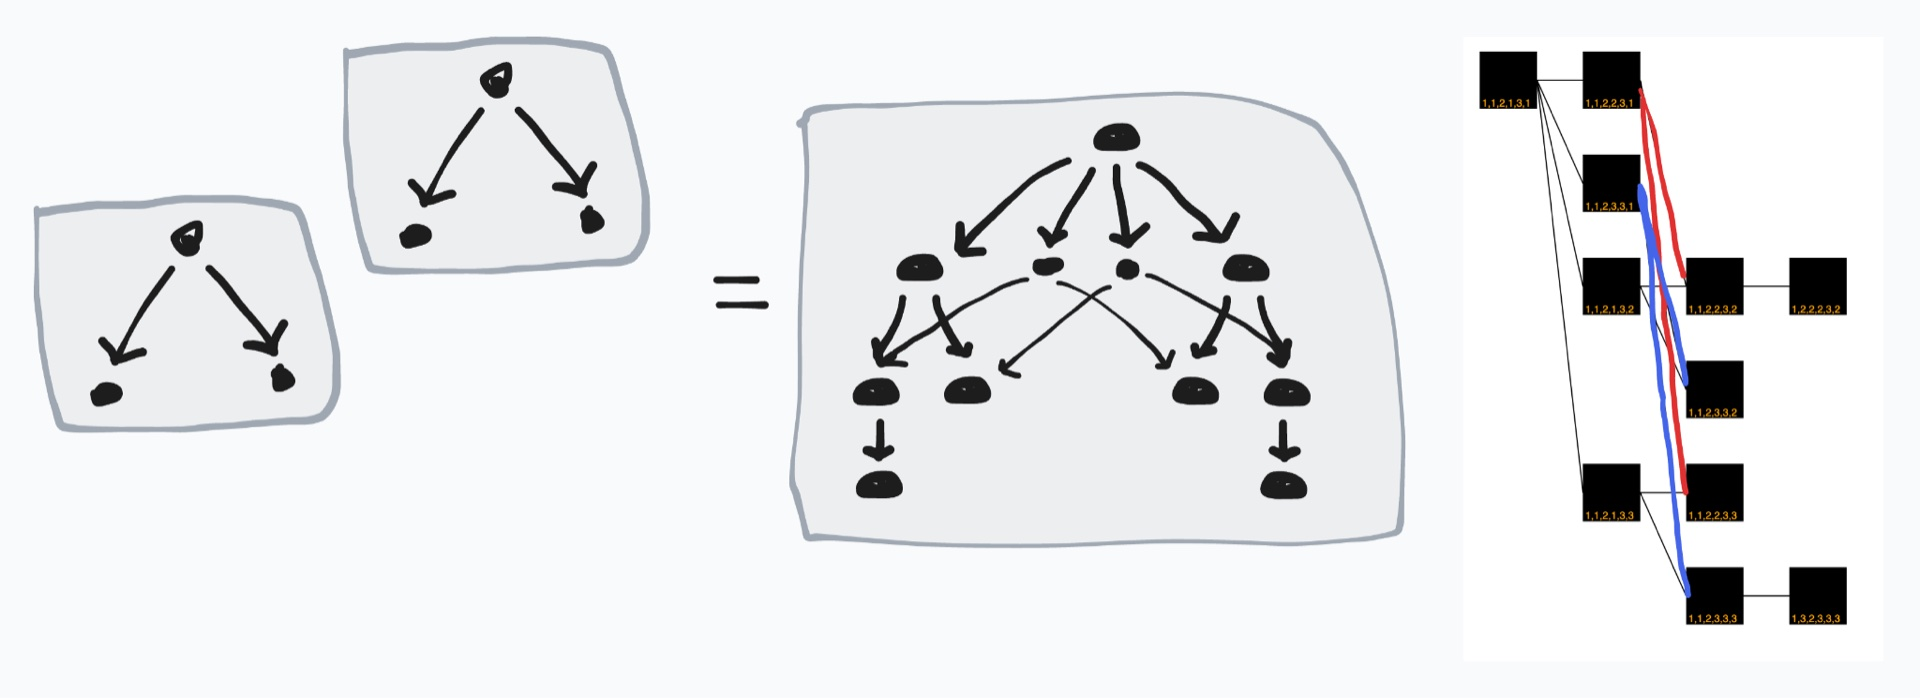
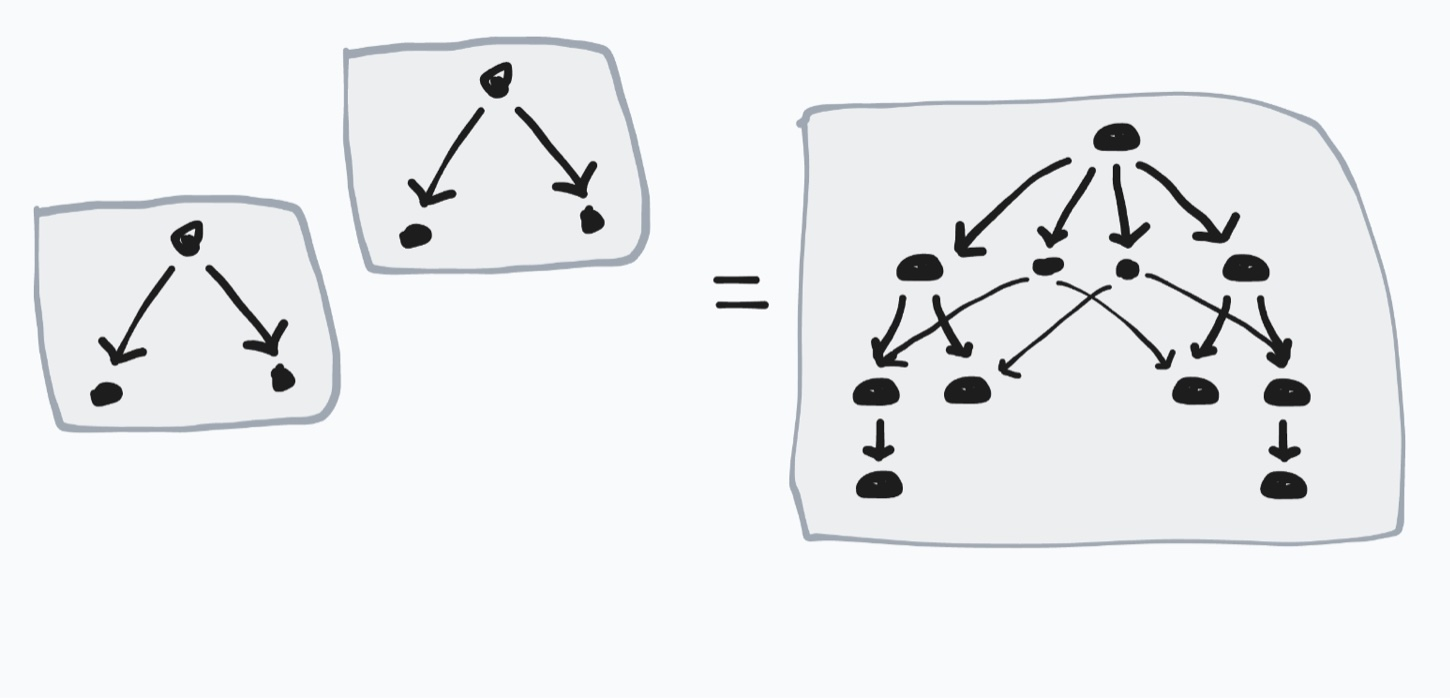
slideshow: Elliot slide's live twisted trees drag themselves around; walk slide's map drops in on its own, smaller, without the caption
Rails gets a loop option: a scripted step replays, its track made afresh
from the stage each time, until the step changes. Also an updated
elliot-1.jpg.

Changed region(s): [[0.4034, 0.0602, 0.9621, 0.9026], [0.0, 0.0301, 0.4655, 0.6318], [0.9621, 0.5115, 0.9931, 0.7521]]

diff --git a/src/slideshow/back-half.tsx b/src/slideshow/back-half.tsx
@@ -2,7 +2,7 @@
 // the ideas came from, and the close). The slides themselves are in the
 // outline in slides.tsx, where their notes can be edited in place.
 
-import { type ReactNode, useContext, useEffect, useRef } from "react";
+import { type ReactNode, useContext, useEffect, useRef, useState } from "react";
 import {
   DemoContext,
   DemoDraggable,
@@ -139,26 +139,6 @@ function Picture({
         ...style,
       }}
     />
-  );
-}
-
-/** A caption in a corner, like a photo's date. */
-function Caption({ children }: { children: ReactNode }) {
-  return (
-    <div
-      style={{
-        position: "absolute",
-        left: 48,
-        bottom: 40,
-        padding: "8px 18px",
-        fontSize: 36,
-        color: "white",
-        background: "rgba(0,0,0,0.45)",
-        borderRadius: 8,
-      }}
-    >
-      {children}
-    </div>
   );
 }
 
@@ -388,6 +368,94 @@ export function studyExit(frame: HTMLElement): Sample[] | null {
   ];
 }
 
+const TREE_DOTS = ["root", "a", "a1", "a2", "b", "b1", "b2"];
+
+/**
+ * A script for the 7→7 twisted trees that drags itself around: each track is
+ * one drag of a random dot to the middle of a bubble it isn't in, made from
+ * where things are now, so it's for a `loop`ing Rails. Each track starts
+ * where the last one let go.
+ */
+export function twistedTreesWander(): (frame: HTMLElement) => Sample[] | null {
+  let from: { x: number; y: number } | null = null;
+  return (frame) => {
+    const stage = frame.parentElement!;
+    const f = frame.getBoundingClientRect();
+    // Centers and radii, in the frame's pixels
+    const circle = (el: Element) => {
+      const r = el.getBoundingClientRect();
+      return {
+        x: r.left + r.width / 2 - f.left,
+        y: r.top + r.height / 2 - f.top,
+        r: r.width / 2,
+      };
+    };
+    const dots = TREE_DOTS.flatMap((id) => {
+      const el = stage.querySelector(`circle[id="${id}"]`);
+      return el ? [circle(el)] : [];
+    });
+    const bubbles = [...stage.querySelectorAll('circle[id^="bg-circle-"]')].map(
+      circle,
+    );
+    const pick = <T,>(xs: T[]) => xs[Math.floor(Math.random() * xs.length)];
+    const dot = pick(dots);
+    if (!dot) return null;
+    const target = pick(
+      bubbles.filter((b) => Math.hypot(b.x - dot.x, b.y - dot.y) > b.r),
+    );
+    if (!target) return null;
+
+    // Glide over to the dot (first time, after the demo has faded in), press,
+    // drag along a slight arc, hold, let go, and rest while the drop settles
+    const LEAD = from ? 0 : 900;
+    const GLIDE = 700;
+    const PRESS = LEAD + GLIDE + 150;
+    const DRAG = 1500;
+    const RELEASE = PRESS + DRAG + 300;
+    const REST = 1100;
+    const start = from ?? { x: dot.x + 70, y: dot.y + 90 };
+    const ease = (u: number) =>
+      u < 0.5 ? 2 * u * u : 1 - (-2 * u + 2) ** 2 / 2;
+    const at = (t: number, x: number, y: number, down: boolean): Sample => ({
+      t,
+      x: x / f.width,
+      y: y / f.height,
+      down,
+    });
+    const glide = Array.from({ length: 20 }, (_, i) => {
+      const u = ease((i + 1) / 20);
+      return at(
+        LEAD + ((i + 1) / 20) * GLIDE,
+        start.x + (dot.x - start.x) * u,
+        start.y + (dot.y - start.y) * u,
+        false,
+      );
+    });
+    const dx = target.x - dot.x;
+    const dy = target.y - dot.y;
+    const drag = Array.from({ length: 45 }, (_, i) => {
+      const v = (i + 1) / 45;
+      const u = ease(v);
+      const bow = 0.15 * Math.sin(Math.PI * u);
+      return at(
+        PRESS + 100 + v * DRAG,
+        dot.x + dx * u - dy * bow,
+        dot.y + dy * u + dx * bow,
+        true,
+      );
+    });
+    from = { x: target.x, y: target.y };
+    return [
+      at(LEAD, start.x, start.y, false),
+      ...glide,
+      at(PRESS, dot.x, dot.y, true),
+      ...drag,
+      at(RELEASE, target.x, target.y, false),
+      at(RELEASE + REST, target.x, target.y, false),
+    ];
+  };
+}
+
 /** Hazel, its chrome hidden but for the nut menu and the start of the top bar. */
 export function HazelSlide() {
   return (
@@ -577,12 +645,18 @@ export function WhiteboardSlide() {
 
 /** The walk: the trail, then the map of the route inset over it. */
 export function WalkSlide() {
-  const mapShown = useSlideStep() >= 1;
-  const mapW = 760;
+  // The map drops in a moment after the slide comes on
+  const shown = useSlideShown();
+  const [mapShown, setMapShown] = useState(false);
+  useEffect(() => {
+    if (!shown) return setMapShown(false);
+    const timer = setTimeout(() => setMapShown(true), 1500);
+    return () => clearTimeout(timer);
+  }, [shown]);
+  const mapW = 620;
   return (
     <div className="absolute inset-0" style={{ overflow: "hidden" }}>
       <Picture name="walk-trail.jpg" fit="cover" />
-      <Caption>Seattle, 2022</Caption>
       <img
         src={file("walk-map.jpg")}
         alt=""

diff --git a/src/slideshow/rails.tsx b/src/slideshow/rails.tsx
@@ -110,11 +110,14 @@ if (typeof window !== "undefined") {
 export function Rails({
   id,
   script,
+  loop = false,
   children,
 }: {
   id: string;
   /** Tracks to play at these steps, in live mode too, made from the frame (the stage) */
   script?: Record<number, (frame: HTMLElement) => Sample[] | null>;
+  /** Play scripted steps over and over, making each track afresh */
+  loop?: boolean;
   children: ReactNode;
 }) {
   const step = useSlideStep();
@@ -158,7 +161,7 @@ export function Rails({
       // Not leaving a track halfway (a drag held), on switching to live
       runner.rushAll();
       playedRef.current = null;
-      if (script?.[step]) runner.enqueue(make(step), false);
+      if (script?.[step]) runner.enqueue(make(step), false, loop);
       return;
     }
     if (playedRef.current !== null && playedRef.current === step - 1) {
@@ -169,7 +172,7 @@ export function Rails({
       setGeneration((g) => g + 1);
       for (let k = 0; k < step; k++) runner.enqueue(make(k), true);
     }
-    runner.enqueue(make(step), false);
+    runner.enqueue(make(step), false, loop && !!script?.[step]);
     playedRef.current = step;
     // Not on `script`, which is made anew on each render
     // eslint-disable-next-line react-hooks/exhaustive-deps
@@ -279,10 +282,13 @@ export function Rails({
 
 type Ref<T> = { readonly current: T | null };
 
+type Queued = { make: () => Sample[] | null; rush: boolean; loop: boolean };
+
 /** Plays tracks one after another, a frame apart. */
 class Runner {
-  private queue: { make: () => Sample[] | null; rush: boolean }[] = [];
+  private queue: Queued[] = [];
   private player: TrackPlayer | null = null;
+  private playing: Queued | null = null;
   private raf = 0;
   /** Frames to wait before starting the next track */
   private wait = 0;
@@ -292,9 +298,13 @@ class Runner {
     private cursor: Ref<HTMLElement>,
   ) {}
 
-  /** Plays a track after the ones queued. It's made when it starts, from the stage as it is then. */
-  enqueue(make: () => Sample[] | null, rush: boolean) {
-    this.queue.push({ make, rush });
+  /**
+   * Plays a track after the ones queued. It's made when it starts, from the
+   * stage as it is then. A looping one is made and played again each time it
+   * ends, until it's rushed or cleared.
+   */
+  enqueue(make: () => Sample[] | null, rush: boolean, loop = false) {
+    this.queue.push({ make, rush, loop });
     this.kick();
   }
 
@@ -328,7 +338,12 @@ class Runner {
     if (this.wait > 0) {
       this.wait--;
     } else if (this.player) {
-      if (!this.player.advance()) this.player = null;
+      if (!this.player.advance()) {
+        if (this.playing?.loop && !this.player.rush) {
+          this.queue.unshift(this.playing);
+        }
+        this.player = null;
+      }
     } else {
       const next = this.queue.shift();
       if (!next) return;
@@ -337,6 +352,7 @@ class Runner {
       const cursor = this.cursor.current;
       if (track && track.length > 0 && frame && cursor) {
         this.player = new TrackPlayer(track, frame, cursor, next.rush);
+        this.playing = next;
       }
     }
     this.kick();

diff --git a/src/slideshow/slides.tsx b/src/slideshow/slides.tsx
@@ -31,6 +31,7 @@ import {
   studyExit,
   StudySlide,
   SupernoolSlide,
+  twistedTreesWander,
   WalkSlide,
   WhiteboardSlide,
 } from "./back-half";
@@ -1413,18 +1414,12 @@ export const outline: (Slide | Heading)[] = [
   },
   {
     transition: "fade-white",
-    steps: 3,
     notes: `
       // Josh
       On a really nice walk in Seattle back in 2023,
-
-      ---
-
       Andrew shared his draggy ideas with me.
 
-      ---
-
-      I kept thinking about them over the years, but didn't do anything about it.
+      I was intrigued, but it took two years for me to do anything about it.
     `,
     content: <WalkSlide />,
   },
@@ -1433,8 +1428,7 @@ export const outline: (Slide | Heading)[] = [
     steps: 4,
     notes: `
       // Josh
-      And then last year, it all came together.
-      My buddy Elliot was playing with order-preserving maps between trees, like you saw earlier.
+      That's when my buddy Elliot was playing with order-preserving maps between trees, like you saw earlier.
 
       ---
 
@@ -1449,13 +1443,16 @@ export const outline: (Slide | Heading)[] = [
       I wanted to reach in and pull them around, and feel out their dynamics. That felt pretty tough, until I remembered Andrew's ideas. I got working on a library that, with Andrew's help, grew into the work we are presenting today.
     `,
     content: (
-      <ElliotSlide
-        live={
-          <DemoSlide width={400} height={600} demoId="twisted-trees">
-            <TwistedTrees7 />
-          </DemoSlide>
-        }
-      />
+      // The live demo drags itself around
+      <Rails id="elliot" script={{ 3: twistedTreesWander() }} loop>
+        <ElliotSlide
+          live={
+            <DemoSlide width={400} height={600} demoId="twisted-trees">
+              <TwistedTrees7 />
+            </DemoSlide>
+          }
+        />
+      </Rails>
     ),
   },
   {
